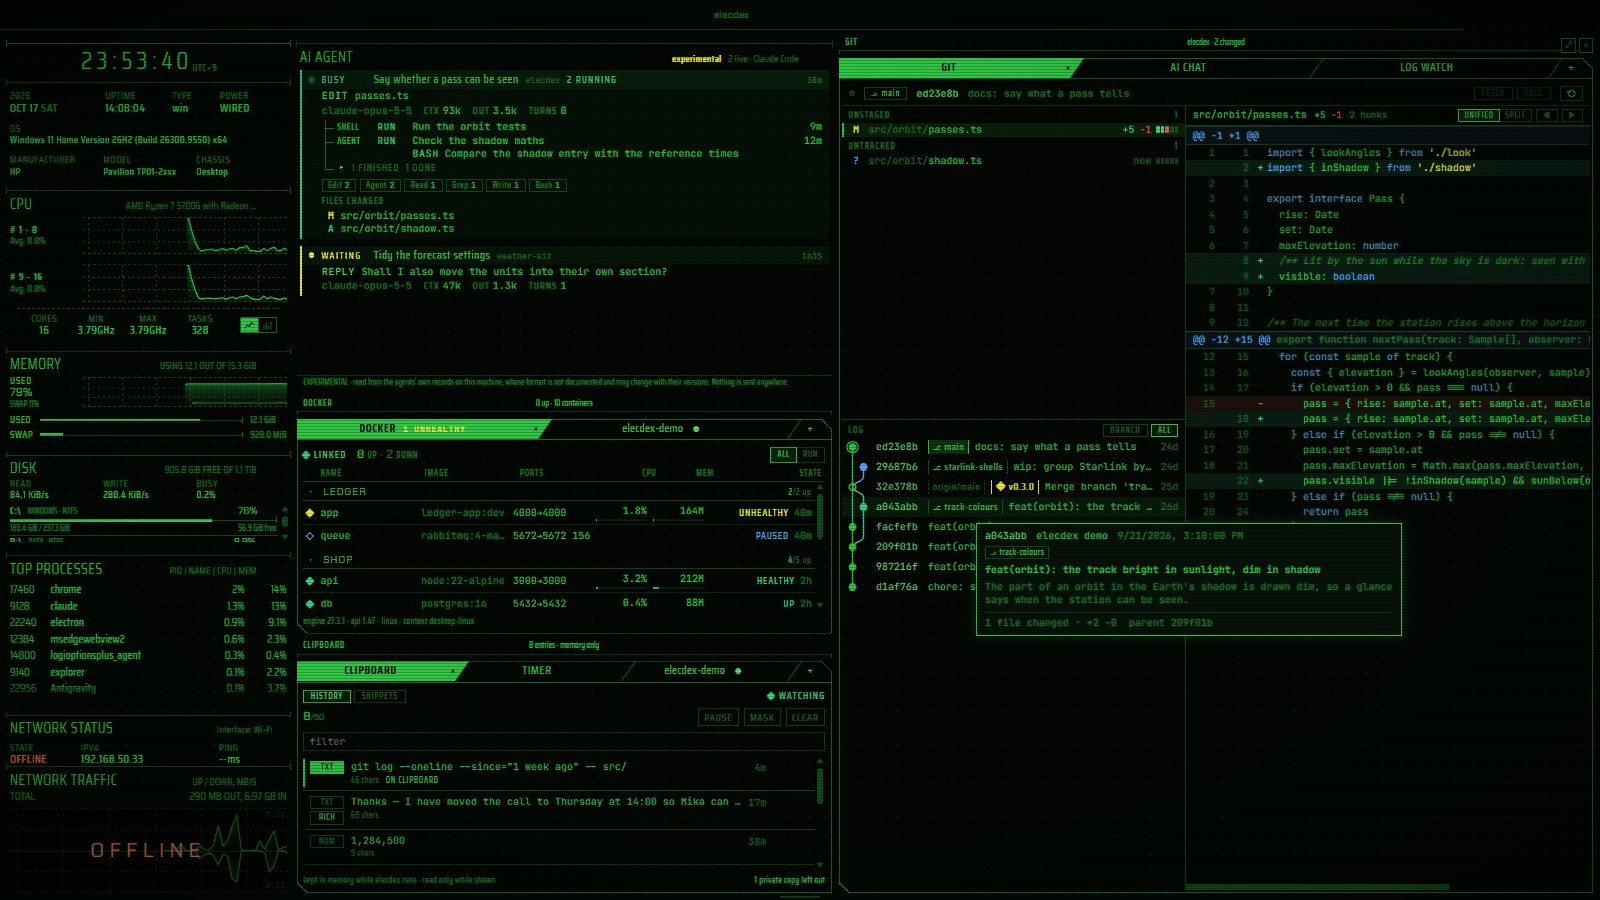
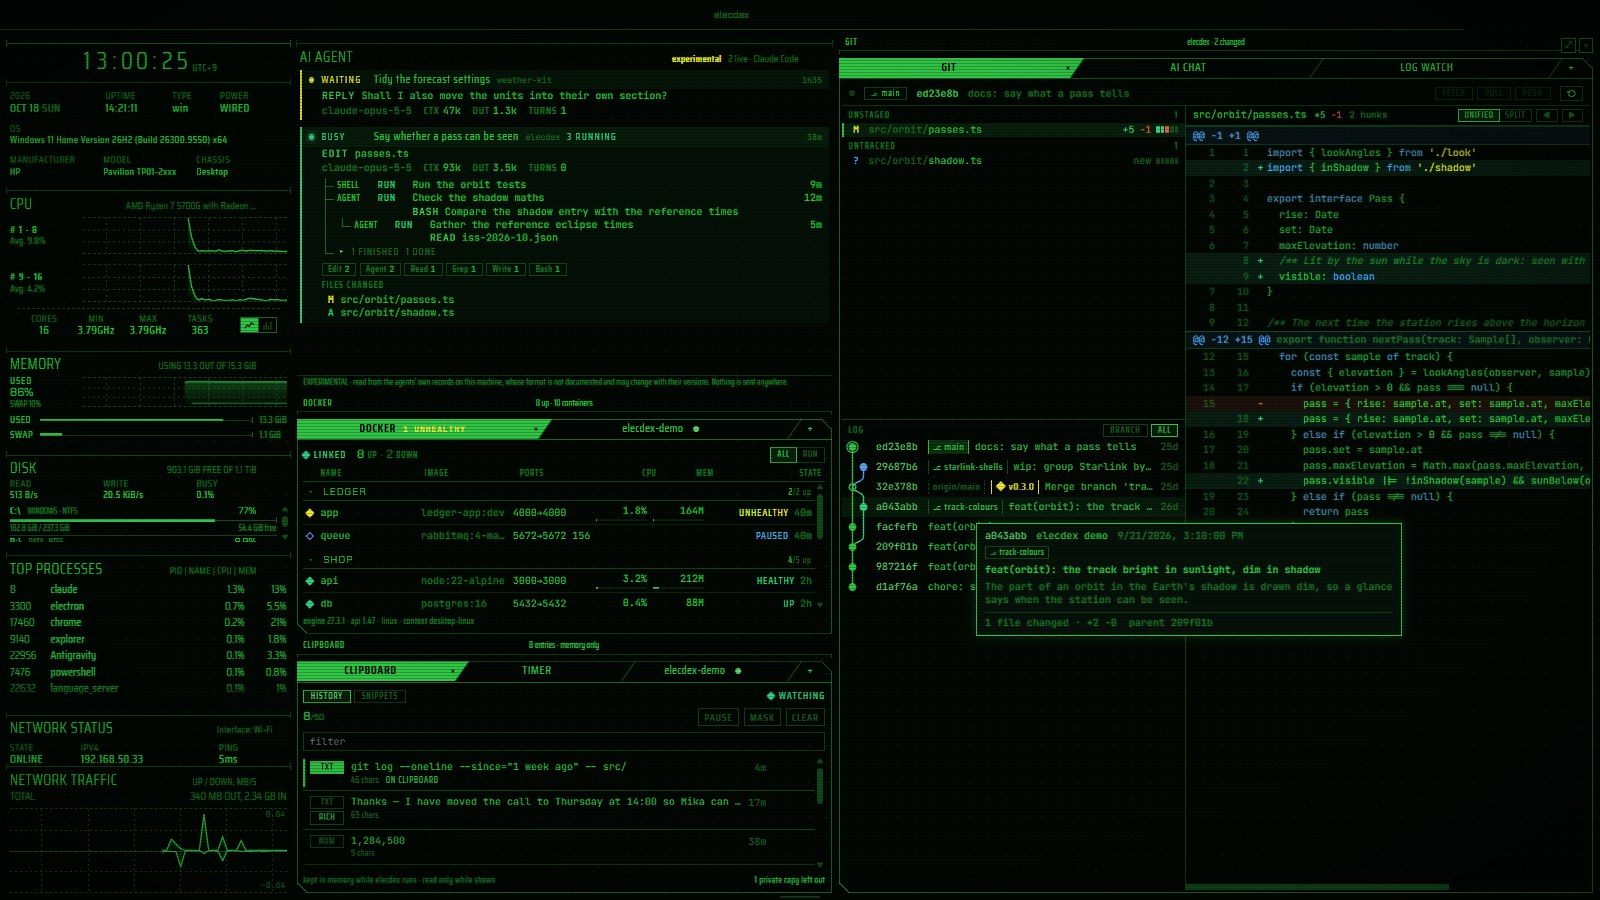
docs(demo): what v0.0.34 added, and a nested subagent in the stand-in records / v0.0.34 で増えたもののデモと、代役の記録の入れ子のサブエージェント
npm run demo:whatsnew34 shows what v0.0.34 added, in a 1600x900 take of about 51 s. It opens on the ai preset, so the GPU pane has a chart to show when it is brought forward. Then the cockpit preset, with CLUSTER's GPU lane card and the MEMORY, VRAM and spec cards. Last the dev preset: a subagent's own subagent in the agent's task tree, and the git pane's PUSH of one commit to a stand-in bare remote in the demo home. The first press shows push ↑1 to origin/main · no hooks, the second pushes. The stand-in Claude Code records now hold a background subagent started by a subagent, so the dev screenshot, retaken, shows it, and the git header's PUSH beside FETCH and PULL. / npm run demo:whatsnew34 は、v0.0.34 で増えたものを 1600×900、約 51 秒で見せる。まず ai プリセットで始める。こうすると、GPU ペインを前に出したときにチャートが溜まっている。次に cockpit プリセットで、CLUSTER の GPU レーンのカードと、MEMORY・VRAM・仕様の行のカードを読む。最後に dev プリセットで、エージェントのタスクのツリーのサブエージェントが起動したサブエージェントと、GIT ペインの PUSH を見せる。PUSH は、デモのホームに置いた代役の bare リモートへ 1 コミットを送る。1 回目に押すと push ↑1 to origin/main · no hooks と出て、2 回目で送る。代役の Claude Code の記録に、サブエージェントが起動したバックグラウンドのサブエージェントを足した。撮り直した dev のスクリーンショットには、それと、GIT のヘッダの FETCH・PULL の隣の PUSH が映る。

diff --git a/CLAUDE.md b/CLAUDE.md
@@ -48,6 +48,7 @@ npm run demo:keystream # KEYSTREAM: menu previews, a track typed on time through
 npm run demo:snippets  # the clipboard pane's snippets: kept, written, moved, pasted into the shell, 16:9, under 30 s (Windows; build first)
 npm run demo:whatsnew  # what v0.0.19-v0.0.20 added, most striking first: CHIP-8, files in the ai preset's chat, dev's agent tree and FETCH/PULL, 16:9 (Windows; build first)
 npm run demo:whatsnew22 # what v0.0.22 added: the pocket's new BASIC, the PLAY-320's three games, MULQ in CODE, 16:9 (Windows; build first)
+npm run demo:whatsnew34 # what v0.0.34 added: the GPU pane, CLUSTER's GPU lane, nested subagents, the git pane's PUSH, 16:9 (Windows; build first)
 npm run demo:elec16    # the ELEC-16 alone, 1280x600: BASIC, the SOFT CARD, CODE, the skins (Windows; build first)
 npm run demo:logwatch  # LOG WATCH alone: a made-up log followed, a burst, filter, PATTERNS, MASK, two lines EXPLAINed by the stand-in, captioned, 16:9, ~55 s (Windows; build first)
 npm run demo:games     # the PLAY-320's three games played, bodies and themes changing, CORE beside (Windows; build first)

diff --git a/docs/demos.md b/docs/demos.md
@@ -30,6 +30,7 @@ Windows でだけ動く（README のスクリーンショットと同じく、Wi
 | `demo:elec16` | ELEC-16 単独 | 1280×600 |
 | `demo:panes` / `demo:snippets` / `demo:wifi` / `demo:dev` / `demo:elec` / `demo:presets` / `demo:shorts` | X 用の短いもの | |
 | `demo:whatsnew` / `demo:whatsnew22` | そのリリースで増えたもの | |
+| `demo:whatsnew34` | v0.0.34 で増えたもの（ai プリセットの GPU ペインを前に出す、cockpit の CLUSTER の GPU レーンと VRAM のスロット、dev のサブエージェントが起動したサブエージェント、GIT ペインの PUSH を 2 回押しで代役のリモートへ） | 1600×900、約 51 秒 |
 
 一覧と一言の説明は CLAUDE.md の Commands にもある。各スクリプトの先頭のコメントに、場面の並びと何が代役かが書いてある。
 
